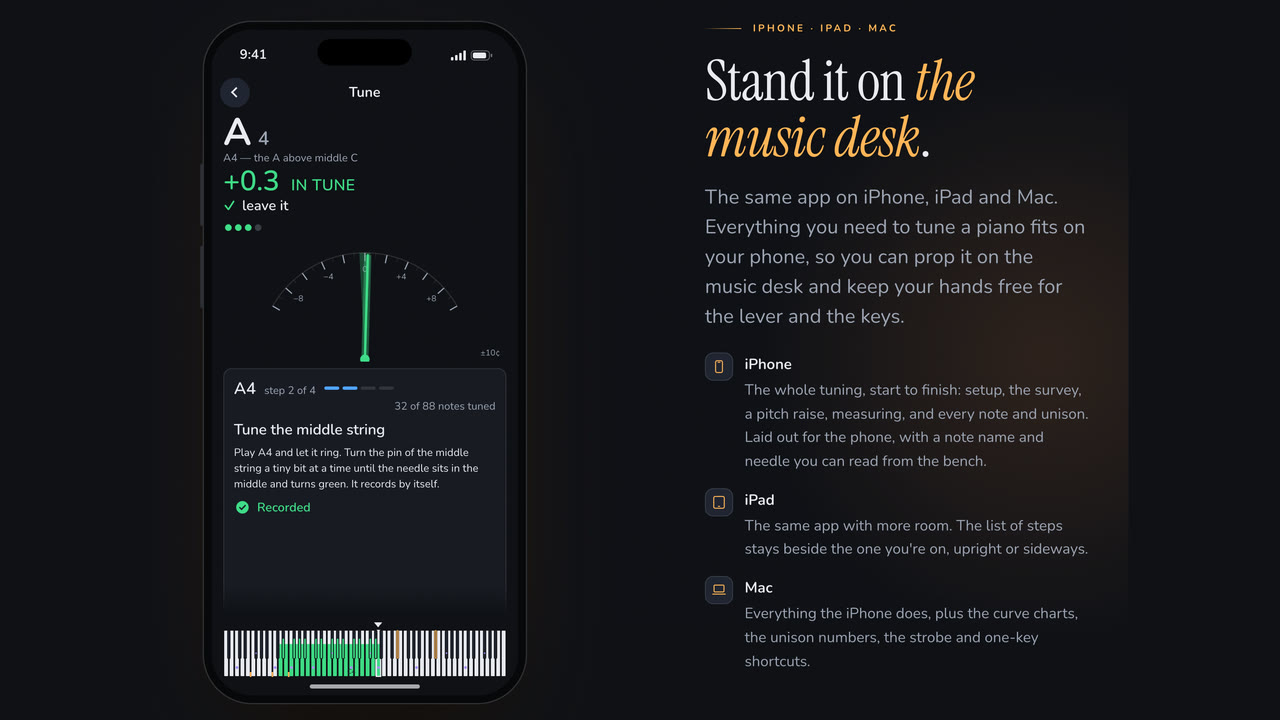
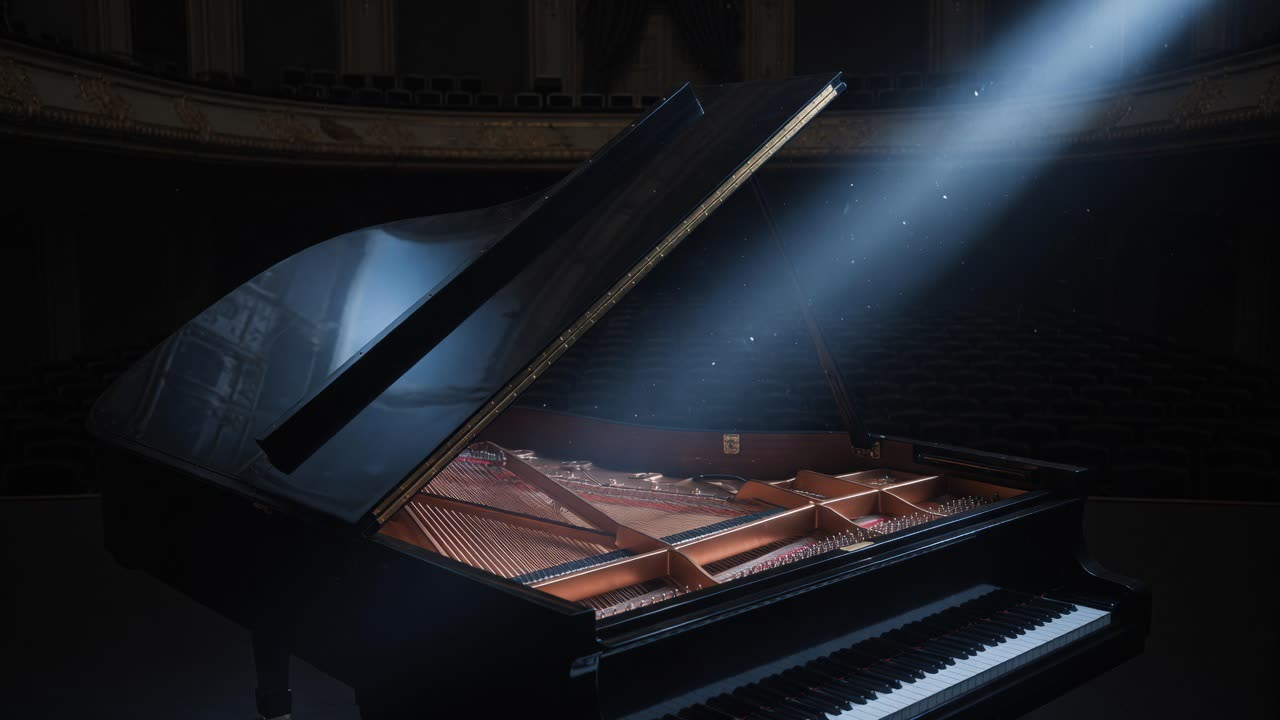
Piano Tuner: heroen fra nettsiden som bilde

diff --git a/index.html b/index.html
@@ -111,7 +111,7 @@
       <div><dt>Størrelse</dt><dd>46 000 linjer Swift</dd></div>
       <div><dt>Jeg gjør</dt><dd>Idé, design, kode, <a href="https://tidemannesbjug.github.io/piano/">nettside&nbsp;↗</a></dd></div>
     </dl>
-    <a href="https://tidemannesbjug.github.io/piano/"><img src="media/piano.jpg" alt="Stemmevisningen i Resonance Piano Tuner på iPhone" loading="lazy" width="1280" height="720"></a>
+    <a href="https://tidemannesbjug.github.io/piano/"><img src="media/piano.jpg" alt="Flygel i lyskjegle på en mørk konsertscene" loading="lazy" width="1280" height="720"></a>
   </section>
 
   <section class="p">
